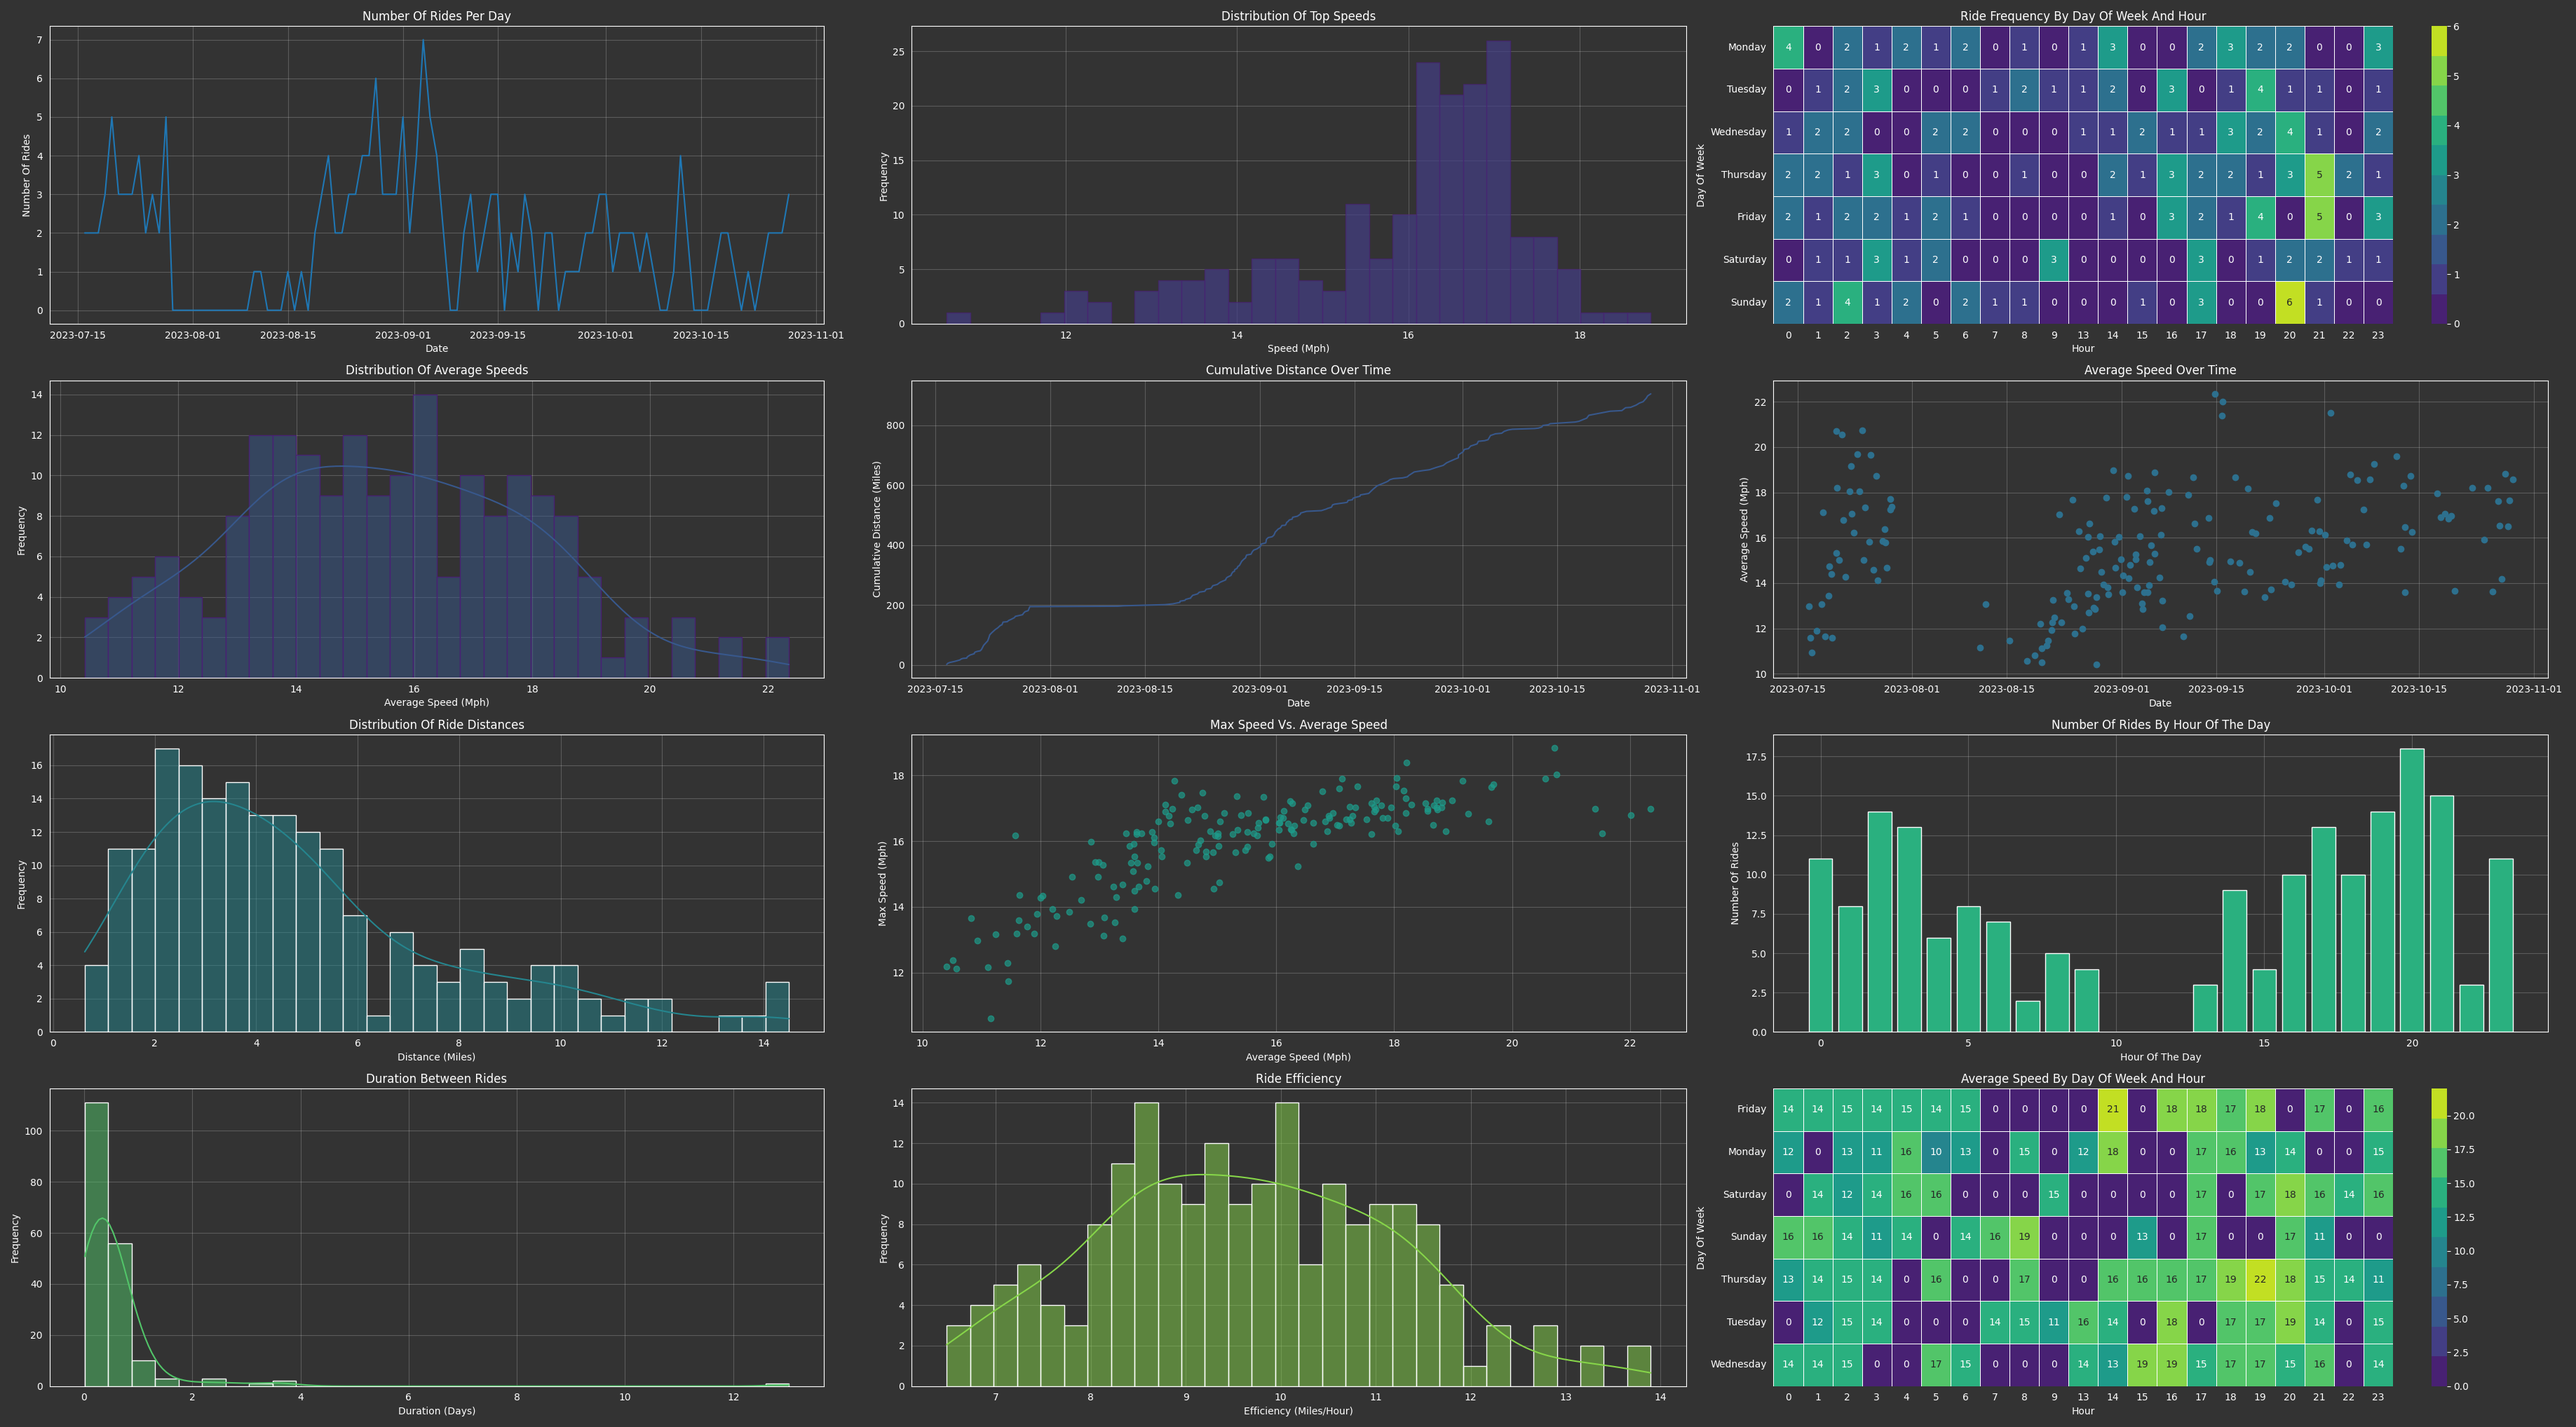
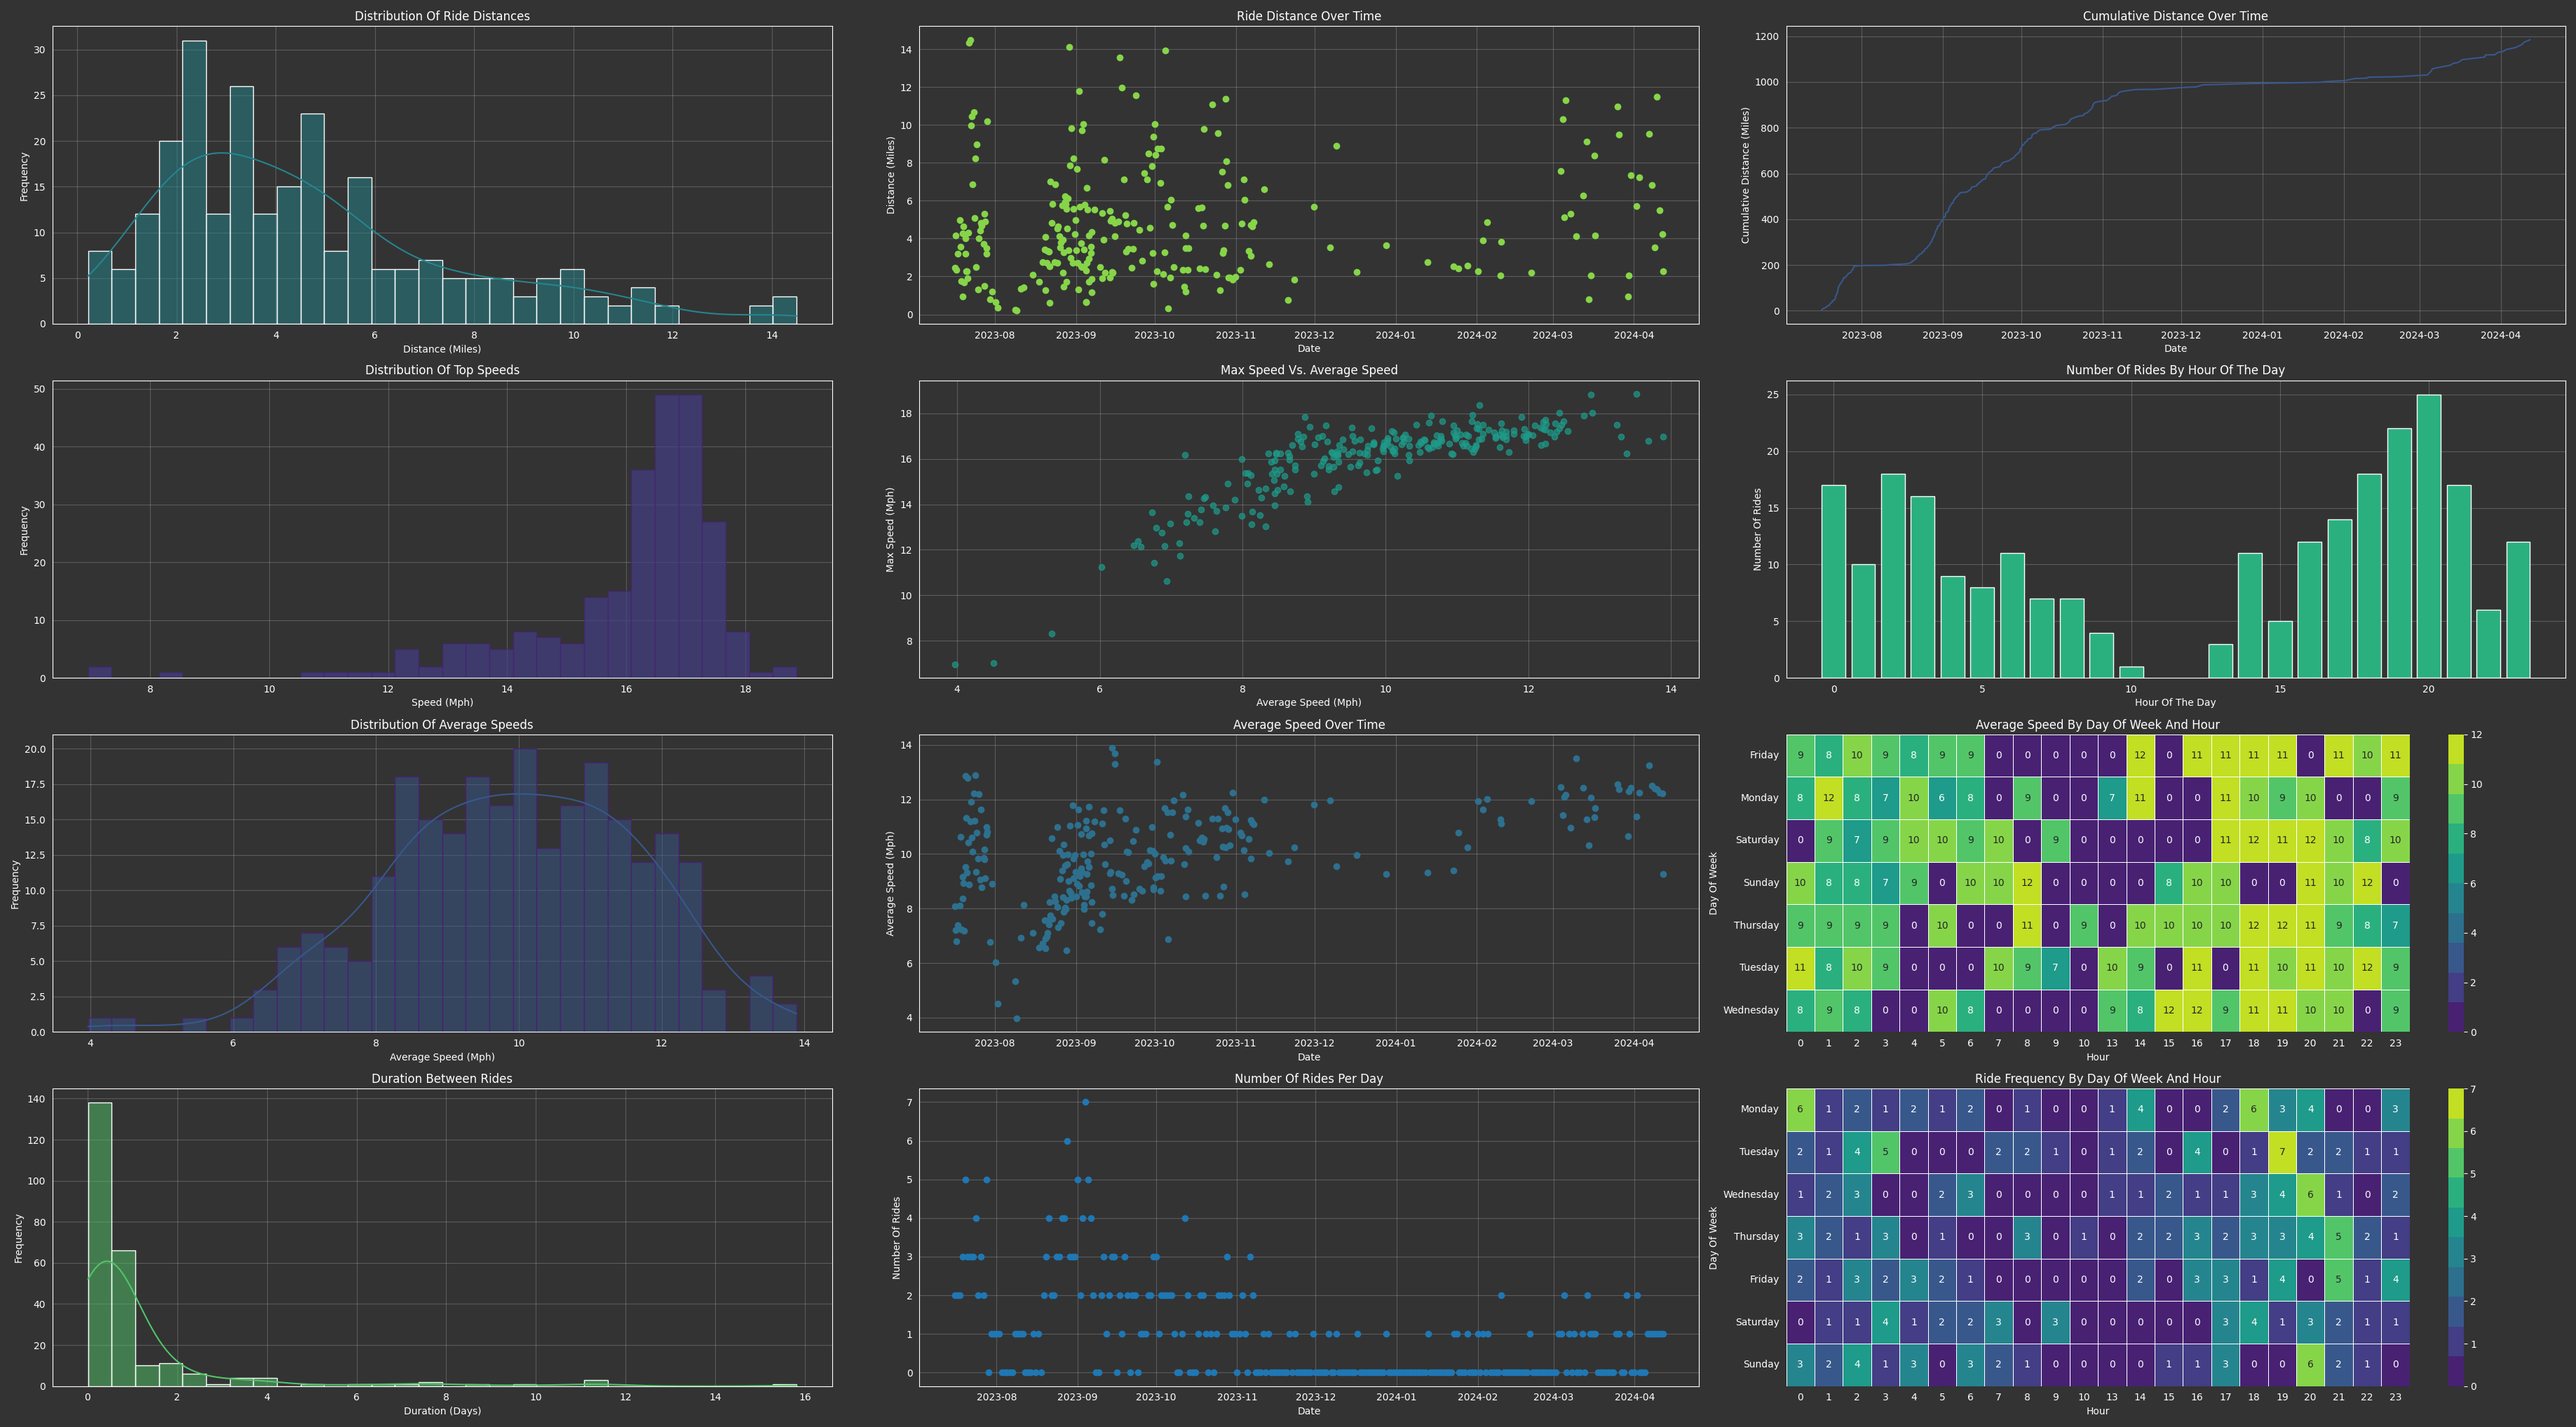
Reorganize the dashboard's plot order and update the readme examples to reflect the changes.

diff --git a/viz/plot_stats.py b/viz/plot_stats.py
@@ -138,85 +138,85 @@ fig, axes = plt.subplots(
     4, 3, figsize=(3674 / dpi_value, 2036 / dpi_value), dpi=dpi_value
 )
 
-# Plot 1: Daily Frequency
-axes[0, 0].scatter(rides_per_day_reindexed.index, rides_per_day_reindexed.values)
-axes[0, 0].set_title("Number of Rides per Day")
-axes[0, 0].set_xlabel("Date")
-axes[0, 0].set_ylabel("Number of Rides")
-axes[0, 0].grid(True)
+# Plot 11: Daily Frequency
+axes[3, 1].scatter(rides_per_day_reindexed.index, rides_per_day_reindexed.values)
+axes[3, 1].set_title("Number of Rides per Day")
+axes[3, 1].set_xlabel("Date")
+axes[3, 1].set_ylabel("Number of Rides")
+axes[3, 1].grid(True)
 
-# Plot 2: Distribution of Top Speeds
-axes[0, 1].hist(
+# Plot 4: Distribution of Top Speeds
+axes[1, 0].hist(
     df["topSpeedOw"], bins=30, color=colors[1], edgecolor=colors[0], alpha=0.7
 )
-axes[0, 1].set_title("Distribution of Top Speeds")
-axes[0, 1].set_xlabel("Speed (mph)")
-axes[0, 1].set_ylabel("Frequency")
-axes[0, 1].grid(True, alpha=0.2)
+axes[1, 0].set_title("Distribution of Top Speeds")
+axes[1, 0].set_xlabel("Speed (mph)")
+axes[1, 0].set_ylabel("Frequency")
+axes[1, 0].grid(True, alpha=0.2)
 
-# Plot 3: Heatmap of Rides by Day of Week and Hour
+# Plot 12: Heatmap of Rides by Day of Week and Hour
 sns.heatmap(
-    heatmap_data, cmap=colors, linewidths=0.5, annot=True, fmt=".0f", ax=axes[0, 2]
+    heatmap_data, cmap=colors, linewidths=0.5, annot=True, fmt=".0f", ax=axes[3, 2]
 )
-axes[0, 2].set_title("Ride Frequency by Day of Week and Hour")
+axes[3, 2].set_title("Ride Frequency by Day of Week and Hour")
 
-# Plot 4: Distribution of Average Speeds
+# Plot 7: Distribution of Average Speeds
 sns.histplot(
     df["averageSpeed"],
     bins=30,
     kde=True,
     color=colors[2],
     edgecolor=colors[0],
-    ax=axes[1, 0],
+    ax=axes[2, 0],
 )
 
-axes[1, 0].set_title("Distribution of Average Speeds")
-axes[1, 0].set_xlabel("Average Speed (mph)")
-axes[1, 0].set_ylabel("Frequency")
-axes[1, 0].grid(True, alpha=0.2)
+axes[2, 0].set_title("Distribution of Average Speeds")
+axes[2, 0].set_xlabel("Average Speed (mph)")
+axes[2, 0].set_ylabel("Frequency")
+axes[2, 0].grid(True, alpha=0.2)
 
-# Plot 5: Cumulative Distance Over Time
-axes[1, 1].plot(
+# Plot 3: Cumulative Distance Over Time
+axes[0, 2].plot(
     df_sorted_by_date["timestamp"],
     df_sorted_by_date["cumulative_distance"],
     color=colors[2],
 )
-axes[1, 1].set_title("Cumulative Distance Over Time")
-axes[1, 1].set_xlabel("Date")
-axes[1, 1].set_ylabel("Cumulative Distance (miles)")
-axes[1, 1].grid(True, alpha=0.2)
+axes[0, 2].set_title("Cumulative Distance Over Time")
+axes[0, 2].set_xlabel("Date")
+axes[0, 2].set_ylabel("Cumulative Distance (miles)")
+axes[0, 2].grid(True, alpha=0.2)
 
 # Plot 6: Average Speed Over Time with Gaps
-axes[1, 2].scatter(
+axes[2, 1].scatter(
     df_sorted_by_date["timestamp"], df_sorted_by_date["averageSpeed"], color=colors[3]
 )
-axes[1, 2].set_title("Average Speed Over Time")
-axes[1, 2].set_xlabel("Date")
-axes[1, 2].set_ylabel("Average Speed (mph)")
-axes[1, 2].grid(True, alpha=0.2)
-
-# Plot 7: Distribution of Ride Distances
-sns.histplot(
-    df["distance"], bins=30, kde=True, color=colors[4], edgecolor="white", ax=axes[2, 0]
-)
-axes[2, 0].set_title("Distribution of Ride Distances")
-axes[2, 0].set_xlabel("Distance (miles)")
-axes[2, 0].set_ylabel("Frequency")
-axes[2, 0].grid(True, alpha=0.2)
-
-# Plot 8: Max Speed vs. Average Speed
-axes[2, 1].scatter(df["averageSpeed"], df["topSpeedOw"], color=colors[5], alpha=0.7)
-axes[2, 1].set_title("Max Speed vs. Average Speed")
-axes[2, 1].set_xlabel("Average Speed (mph)")
-axes[2, 1].set_ylabel("Max Speed (mph)")
+axes[2, 1].set_title("Average Speed Over Time")
+axes[2, 1].set_xlabel("Date")
+axes[2, 1].set_ylabel("Average Speed (mph)")
 axes[2, 1].grid(True, alpha=0.2)
 
-# Plot 9: Number of Rides by Hour of the Day
-axes[2, 2].bar(hourly_rides.index, hourly_rides.values, color=colors[6])
-axes[2, 2].set_title("Number of Rides by Hour of the Day")
-axes[2, 2].set_xlabel("Hour of the Day")
-axes[2, 2].set_ylabel("Number of Rides")
-axes[2, 2].grid(True, alpha=0.2)
+# Plot 1: Distribution of Ride Distances
+sns.histplot(
+    df["distance"], bins=30, kde=True, color=colors[4], edgecolor="white", ax=axes[0, 0]
+)
+axes[0, 0].set_title("Distribution of Ride Distances")
+axes[0, 0].set_xlabel("Distance (miles)")
+axes[0, 0].set_ylabel("Frequency")
+axes[0, 0].grid(True, alpha=0.2)
+
+# Plot 5: Max Speed vs. Average Speed
+axes[1, 1].scatter(df["averageSpeed"], df["topSpeedOw"], color=colors[5], alpha=0.7)
+axes[1, 1].set_title("Max Speed vs. Average Speed")
+axes[1, 1].set_xlabel("Average Speed (mph)")
+axes[1, 1].set_ylabel("Max Speed (mph)")
+axes[1, 1].grid(True, alpha=0.2)
+
+# Plot 8: Number of Rides by Hour of the Day
+axes[1, 2].bar(hourly_rides.index, hourly_rides.values, color=colors[6])
+axes[1, 2].set_title("Number of Rides by Hour of the Day")
+axes[1, 2].set_xlabel("Hour of the Day")
+axes[1, 2].set_ylabel("Number of Rides")
+axes[1, 2].grid(True, alpha=0.2)
 
 # Plot 10: Distribution of Duration Between Rides
 sns.histplot(
@@ -232,20 +232,20 @@ axes[3, 0].set_xlabel("Duration (days)")
 axes[3, 0].set_ylabel("Frequency")
 axes[3, 0].grid(True, alpha=0.2)
 
-# Plot 11: Ride Distance Over Time
-axes[3, 1].scatter(
+# Plot 2: Ride Distance Over Time
+axes[0, 1].scatter(
     df_sorted_by_date["timestamp"], df_sorted_by_date["distance"], color=colors[8]
 )
-axes[3, 1].set_title("Ride Distance Over Time")
-axes[3, 1].set_xlabel("Date")
-axes[3, 1].set_ylabel("Distance (miles)")
-axes[3, 1].grid(True, alpha=0.2)
+axes[0, 1].set_title("Ride Distance Over Time")
+axes[0, 1].set_xlabel("Date")
+axes[0, 1].set_ylabel("Distance (miles)")
+axes[0, 1].grid(True, alpha=0.2)
 
-# Plot 12: Heatmap of Average Speed by Day of Week and Hour
+# Plot 9: Heatmap of Average Speed by Day of Week and Hour
 sns.heatmap(
-    speed_heatmap_data, cmap=colors, linewidths=0.5, annot=True, fmt="d", ax=axes[3, 2]
+    speed_heatmap_data, cmap=colors, linewidths=0.5, annot=True, fmt="d", ax=axes[2, 2]
 )
-axes[3, 2].set_title("Average Speed by Day of Week and Hour")
+axes[2, 2].set_title("Average Speed by Day of Week and Hour")
 
 # Grid, Title, XLabel, YLabel Adjustments
 for i in range(4):

diff --git a/viz/plot_rides.py b/viz/plot_rides.py
@@ -1,28 +1,28 @@
 import folium
 import json
 
+
 def plot_rides(input_path, output_path):
     # Load the data from the JSON file
-    with open(input_path, 'r') as f:
+    with open(input_path, "r") as f:
         rides = json.load(f)
 
-    # Initialize a map centered around a starting point of a ride
-    m = folium.Map(location=[float(rides[0][0]['lat']), float(rides[0][0]['lon'])], zoom_start=13, tiles=None)  # Set tiles=None to prevent loading default tiles
+    # Initialize a map centered around the starting point of the first ride
+    # Using a plain dark background without any tiles
+    m = folium.Map(
+        location=[float(rides[0][0]["lat"]), float(rides[0][0]["lon"])],
+        zoom_start=13,
+        tiles="CartoDB dark_matter",
+    )
 
-    # Applying the dark theme
-    tile_url = 'https://{s}.basemaps.cartocdn.com/dark_all/{z}/{x}/{y}{r}.png'
-    tile_layer = folium.TileLayer(tiles=tile_url, attr='CartoDB dark_matter', name='CartoDB dark_matter')
-    tile_layer.add_to(m)
-
-    # For each ride in the data
+    # Plot each ride as a polyline
     for ride in rides:
-        ride_coords = [(float(point['lat']), float(point['lon'])) for point in ride]
-    
-        # Add a polyline for the ride
-        folium.PolyLine(ride_coords, color='#B388FF', weight=3.5, opacity=0.16).add_to(m)
+        ride_coords = [(float(point["lat"]), float(point["lon"])) for point in ride]
+        folium.PolyLine(ride_coords, color="#B388FF", weight=3.5, opacity=0.16).add_to(m)
 
-    # Save map to HTML
+    # Save the map to an HTML file
     m.save(output_path)
 
+
 if __name__ == "__main__":
-    plot_rides('data/coordinates.json', 'rides_map_dark.html')
+    plot_rides("data/coordinates.json", "rides_map_dark.html")
